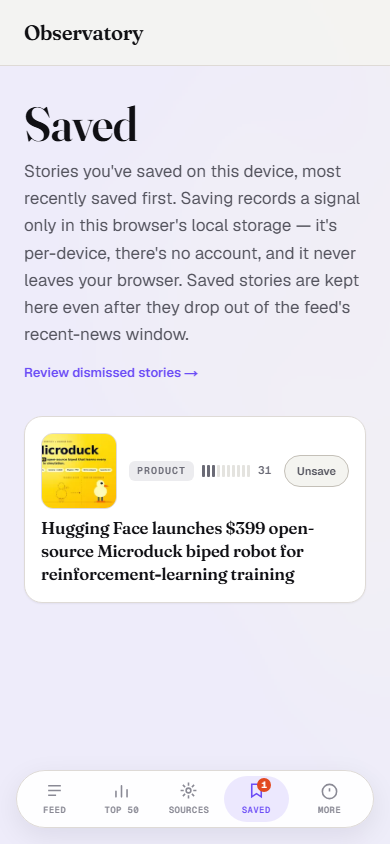
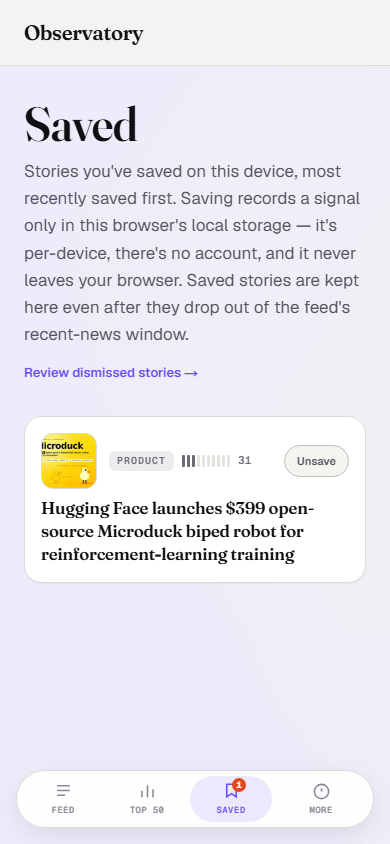
fix: stop Top 50 overflowing on mobile; move Sources into the More sheet
Top 50 spilled past the right edge of the screen at every common phone
width. Measured at 390px: the row's three tracks computed to
76 + 149.6 + 67.4 plus 24px of gaps = 317px inside a 298px content box,
so it ran 19px off-screen -- and reproduced identically at 360, 375 and
412. The cause was the bare `1fr` in the middle column, which carries an
automatic minimum equal to its content's min-content width; that column
holds .metaTop, whose ImportanceMeter is `flex: none` and therefore never
compresses, so the track had a hard 149.6px floor it could not go under.

minmax(0, 1fr) removes the floor, .metaTop wraps instead of forcing the
track wider, and the thumbnail drops 76px -> 56px below 640px to buy back
room. The action button also gets a max-width so a longer label can never
reintroduce the problem.

Sources moves out of the bottom bar and into the More sheet. It is a
reference view rather than somewhere you move between while reading, and
it was spending a fifth of a phone-width bar; the three remaining
destinations are now 71px rather than 62px each. Nothing became
unreachable -- the sheet is one tap, the row is a full 44px target, and
desktop still lists Sources in Header's top nav.

Two more overflows found by sweeping all five pages across 320-430px
rather than only checking the reported one:

- SourceCard put a long unbroken mono id ("github_releases") next to a
  white-space: nowrap status pill in a flex row, so neither could yield
[…]

diff --git a/web/src/components/BottomNav.tsx b/web/src/components/BottomNav.tsx
@@ -11,6 +11,12 @@
 // entirely. The route, its page, and its data were all fine; the
 // installed PWA (portrait, standalone) simply had no way to reach the
 // one view the ranking stage exists to produce.
+//
+// Sources lives in the "More" sheet rather than the bar. It is a
+// reference/diagnostics view, not somewhere you move between while
+// reading, and spending a fifth of a phone-width bar on it crowded the
+// three destinations that are. Nothing became unreachable -- the sheet is
+// one tap, and desktop still shows it in Header's top nav.
 import { useState } from "react";
 import Link from "next/link";
 import { usePathname } from "next/navigation";
@@ -67,7 +73,19 @@ export function BottomNav() {
       {sheetOpen && (
         <>
           <div className={styles.sheetScrim} onClick={() => setSheetOpen(false)} />
-          <div className={styles.sheet} role="dialog" aria-label="Display settings">
+          <div className={styles.sheet} role="dialog" aria-label="More">
+            <Link
+              href="/sources/"
+              className={styles.sheetLink}
+              onClick={() => setSheetOpen(false)}
+            >
+              <SourcesIcon />
+              <span className={styles.sheetLinkLabel}>Sources</span>
+              <span className={styles.sheetLinkHint} aria-hidden="true">
+                {pathname?.startsWith("/sources") ? "Current" : "→"}
+              </span>
+            </Link>
+            <div className={styles.sheetDivider} />
             <div className={styles.sheetRow}>
               <span className={styles.sheetLabel}>Theme</span>
               <ThemeToggle />
@@ -99,15 +117,6 @@ export function BottomNav() {
           <span className={styles.itemLabel}>Top 50</span>
         </Link>
         <Link
-          href="/sources/"
-          className={`${styles.item} ${pathname?.startsWith("/sources") ? styles.itemActive : ""}`}
-          aria-label="Sources"
-          onClick={() => setSheetOpen(false)}
-        >
-          <SourcesIcon />
-          <span className={styles.itemLabel}>Sources</span>
-        </Link>
-        <Link
           href="/saved/"
           className={`${styles.item} ${pathname?.startsWith("/saved") ? styles.itemActive : ""}`}
           aria-label="Saved"
@@ -120,7 +129,7 @@ export function BottomNav() {
         <button
           type="button"
           className={`${styles.item} ${sheetOpen ? styles.itemActive : ""}`}
-          aria-label="Display settings"
+          aria-label="More"
           aria-expanded={sheetOpen}
           onClick={() => setSheetOpen((v) => !v)}
         >

diff --git a/web/src/components/StoryListRow.module.css b/web/src/components/StoryListRow.module.css
@@ -84,7 +84,15 @@
 @media (max-width: 639px) {
   .row {
     display: grid;
-    grid-template-columns: auto 1fr auto;
+    /* minmax(0, 1fr), not 1fr. A bare `1fr` carries an automatic minimum of
+     * its content's min-content width, and the middle column holds
+     * .metaTop -- whose ImportanceMeter is `flex: none` and therefore
+     * refuses to compress. Measured at a 390px viewport that pinned the
+     * middle column at 149.6px, so the tracks summed to 76 + 149.6 + 67.4
+     * plus 24px of gaps = 317px inside a 298px content box, and the row
+     * spilled 19px past the right edge of the screen. minmax(0, ...) drops
+     * that floor so the column yields; .metaTop wraps instead (below). */
+    grid-template-columns: auto minmax(0, 1fr) auto;
     grid-template-areas:
       "thumb meta action"
       "headline headline headline";
@@ -105,6 +113,9 @@
 
   .metaTop {
     grid-area: meta;
+    /* Category chip and gauge stack rather than force the track wider. */
+    flex-wrap: wrap;
+    row-gap: var(--space-1);
   }
 
   .headline {
@@ -124,5 +135,11 @@
     grid-area: action;
     padding: var(--space-2) var(--space-3);
     font-size: var(--text-xs);
+    /* Belt and braces: even if a future label grows, the button gives way
+     * before the row does. */
+    max-width: 40vw;
+    overflow: hidden;
+    text-overflow: ellipsis;
+    white-space: nowrap;
   }
 }

diff --git a/web/src/components/BottomNav.module.css b/web/src/components/BottomNav.module.css
@@ -120,3 +120,50 @@
   color: var(--color-text-secondary);
   font-weight: 500;
 }
+
+/* --- sheet navigation ------------------------------------------------ */
+/* Sources moved out of the bar and into here. Styled as a destination row
+ * (icon, label, affordance) rather than as one of the toggles below it, so
+ * the sheet reads as "one place to go, then two things to set". */
+.sheetLink {
+  display: flex;
+  align-items: center;
+  gap: var(--space-3);
+  min-height: 44px;
+  margin: calc(var(--space-2) * -1) calc(var(--space-3) * -1);
+  padding: var(--space-2) var(--space-3);
+  border-radius: var(--radius-md);
+  text-decoration: none;
+  color: var(--color-text-primary);
+}
+
+.sheetLink:active {
+  background: var(--color-surface-sunken);
+}
+
+.sheetLink .icon {
+  width: 19px;
+  height: 19px;
+  color: var(--color-text-secondary);
+  flex: none;
+}
+
+.sheetLinkLabel {
+  flex: 1;
+  font-size: var(--text-md);
+  font-weight: 500;
+}
+
+.sheetLinkHint {
+  font-family: var(--font-mono);
+  font-size: var(--text-xs);
+  letter-spacing: 0.06em;
+  text-transform: uppercase;
+  color: var(--color-text-tertiary);
+}
+
+.sheetDivider {
+  height: 1px;
+  background: var(--color-border);
+  margin: 0 calc(var(--space-3) * -1);
+}

diff --git a/web/src/components/SourceCard.module.css b/web/src/components/SourceCard.module.css
@@ -14,10 +14,18 @@
   margin-bottom: var(--space-3);
 }
 
+/* Source ids are long unbroken mono strings ("github_releases",
+ * "arstechnica"), so without an explicit break rule the id sets a
+ * min-content floor that the flex row cannot go below. Paired with the
+ * nowrap .statusPill beside it, that pushed the card 4px off a 320px
+ * screen. min-width: 0 lets the flex item shrink; anywhere lets the id
+ * itself wrap rather than dictate the card's width. */
 .id {
   font-family: var(--font-mono);
   font-size: var(--text-md);
   font-weight: 600;
+  min-width: 0;
+  overflow-wrap: anywhere;
 }
 
 .plugin {
@@ -36,6 +44,8 @@
   font-size: var(--text-xs);
   font-weight: 600;
   white-space: nowrap;
+  /* Keeps its own size, but never claims more of the row than it needs. */
+  flex: none;
 }
 
 .dot {

diff --git a/web/src/app/sources/page.module.css b/web/src/app/sources/page.module.css
@@ -56,7 +56,12 @@
 
 .grid {
   display: grid;
-  grid-template-columns: repeat(auto-fill, minmax(300px, 1fr));
+  /* min(300px, 100%), not a bare 300px: the raw floor cannot be honoured
+   * on a 320px screen, where the content box is only ~272px, so the track
+   * stayed 300px wide and the whole grid spilled 4px off-screen. min()
+   * lets the track fall back to the container width when 300px will not
+   * fit, which is the only case where the floor was doing harm. */
+  grid-template-columns: repeat(auto-fill, minmax(min(300px, 100%), 1fr));
   gap: var(--space-4);
 }
 

diff --git a/web/src/app/top/page.module.css b/web/src/app/top/page.module.css
@@ -147,11 +147,9 @@
 .reason {
   color: var(--color-text-secondary);
   font-size: var(--text-sm);
-  padding-left: var(--space-3);
-  border-left: 2px solid var(--color-accent);
   margin: var(--space-2) 0 0;
   padding-left: var(--space-3);
-  border-left: 2px solid var(--color-accent-soft);
+  border-left: 2px solid var(--color-accent);
 }
 
 @media (max-width: 640px) {

diff --git a/web/src/components/LeadImage.module.css b/web/src/components/LeadImage.module.css
@@ -37,8 +37,8 @@
   border: none;
 }
 
-@media (max-width: 560px) {
+@media (max-width: 640px) {
   .thumb {
-    width: 76px;
+    width: 56px;
   }
 }
